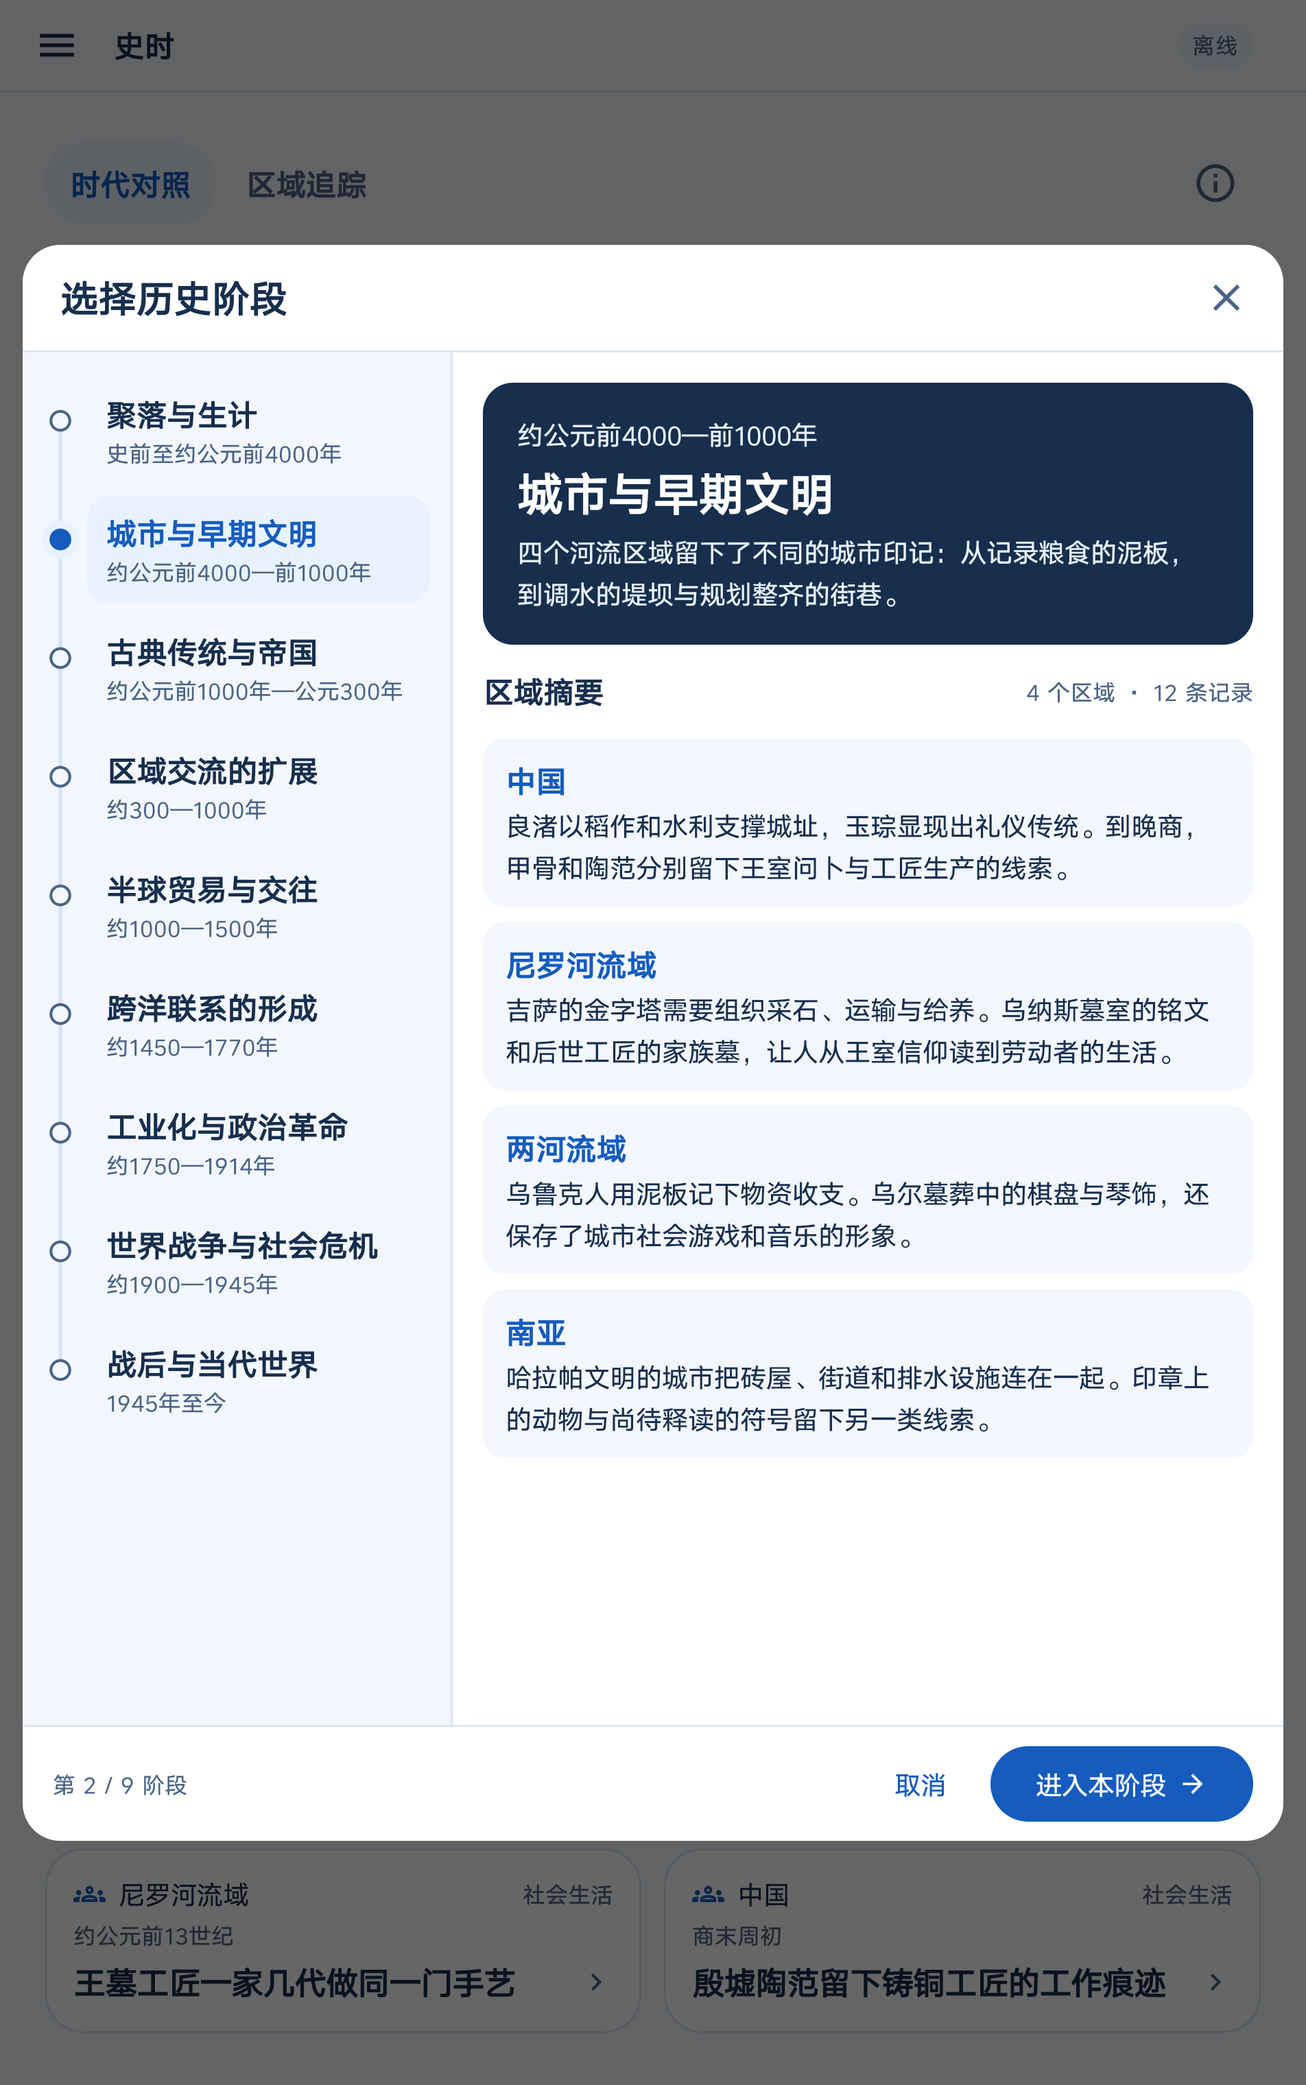
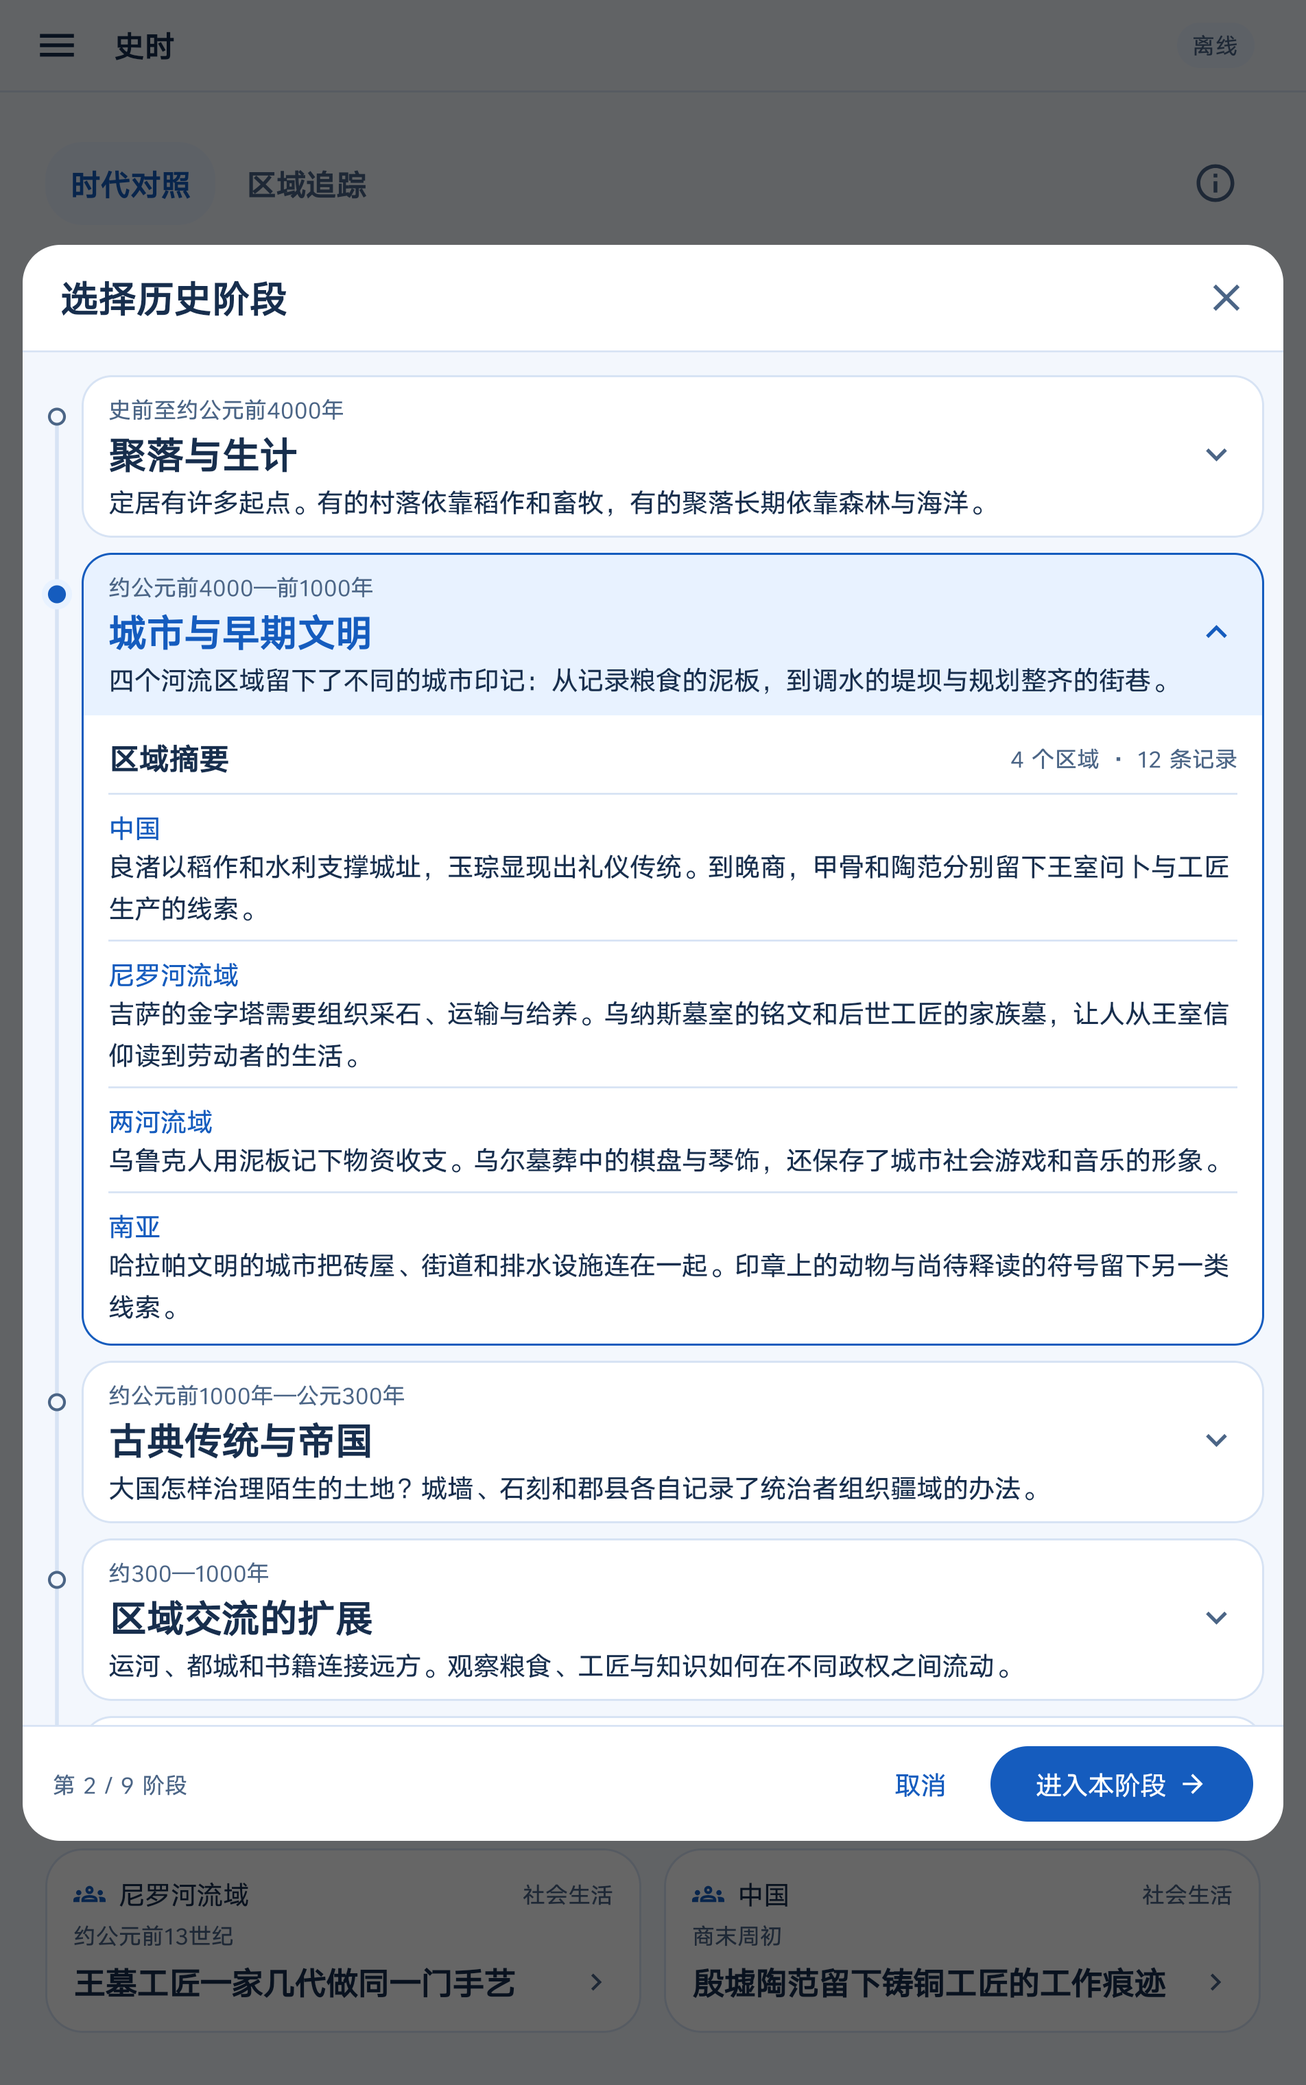
史时：在阶段概况下方展开区域详情

diff --git a/android/android/app/src/main/java/cn/xux/cloudworkbench/HistoryTimelineDialog.kt b/android/android/app/src/main/java/cn/xux/cloudworkbench/HistoryTimelineDialog.kt
@@ -1,41 +1,40 @@
 package cn.xux.cloudworkbench
 
+import androidx.compose.foundation.BorderStroke
 import androidx.compose.foundation.background
+import androidx.compose.foundation.clickable
 import androidx.compose.foundation.layout.*
 import androidx.compose.foundation.lazy.LazyColumn
-import androidx.compose.foundation.lazy.LazyRow
-import androidx.compose.foundation.lazy.LazyListScope
 import androidx.compose.foundation.lazy.itemsIndexed
 import androidx.compose.foundation.lazy.rememberLazyListState
-import androidx.compose.foundation.rememberScrollState
-import androidx.compose.foundation.selection.selectable
-import androidx.compose.foundation.selection.selectableGroup
-import androidx.compose.foundation.verticalScroll
 import androidx.compose.material.icons.Icons
-import androidx.compose.material.icons.outlined.Close
 import androidx.compose.material.icons.automirrored.outlined.ArrowForward
+import androidx.compose.material.icons.outlined.Close
+import androidx.compose.material.icons.outlined.ExpandLess
+import androidx.compose.material.icons.outlined.ExpandMore
 import androidx.compose.material3.*
 import androidx.compose.runtime.*
 import androidx.compose.runtime.saveable.rememberSaveable
 import androidx.compose.ui.Alignment
 import androidx.compose.ui.Modifier
-import androidx.compose.ui.draw.clip
 import androidx.compose.ui.draw.drawBehind
 import androidx.compose.ui.geometry.Offset
-import androidx.compose.ui.graphics.Color
 import androidx.compose.ui.graphics.drawscope.Stroke
 import androidx.compose.ui.platform.testTag
 import androidx.compose.ui.semantics.Role
+import androidx.compose.ui.semantics.semantics
+import androidx.compose.ui.semantics.stateDescription
 import androidx.compose.ui.unit.dp
 import androidx.compose.ui.window.Dialog
 import androidx.compose.ui.window.DialogProperties
 
 @Composable internal fun HistoryTimelineDialog(current: Int, close: () -> Unit, enter: (Int) -> Unit) {
     var preview by rememberSaveable { mutableIntStateOf(current) }
+    var showDetails by rememberSaveable { mutableStateOf(true) }
+    val list = rememberLazyListState(initialFirstVisibleItemIndex = (current - 1).coerceAtLeast(0))
     Dialog(onDismissRequest = close, properties = DialogProperties(usePlatformDefaultWidth = false)) {
-        BoxWithConstraints(Modifier.fillMaxSize().safeDrawingPadding().padding(12.dp), contentAlignment = Alignment.Center) {
-            val wide = maxWidth >= 580.dp
-            Surface(Modifier.widthIn(max = 1000.dp).fillMaxWidth().heightIn(max = 900.dp).fillMaxHeight(.94f),
+        Box(Modifier.fillMaxSize().safeDrawingPadding().padding(12.dp), contentAlignment = Alignment.Center) {
+            Surface(Modifier.widthIn(max = 760.dp).fillMaxWidth().heightIn(max = 900.dp).fillMaxHeight(.94f),
                 shape = MaterialTheme.shapes.large, color = MaterialTheme.colorScheme.surface) {
                 Column {
                     Row(Modifier.padding(start = 20.dp, end = 6.dp, top = 4.dp, bottom = 4.dp), verticalAlignment = Alignment.CenterVertically) {
@@ -43,20 +42,20 @@ import androidx.compose.ui.window.DialogProperties
                         IconButton(onClick = close) { Icon(Icons.Outlined.Close, "关闭", tint = Muted) }
                     }
                     HorizontalDivider(color = Outline)
-                    if (wide) {
-                        Row(Modifier.weight(1f)) {
-                            EraTimeline(preview, { preview = it }, Modifier.weight(.34f).fillMaxHeight(), horizontal = false)
-                            VerticalDivider(color = Outline)
-                            EraSummary(historyEras[preview], Modifier.weight(.66f).fillMaxHeight())
+                    LazyColumn(Modifier.weight(1f).fillMaxWidth().background(Background).testTag("eraTimeline"), state = list,
+                        contentPadding = PaddingValues(horizontal = 10.dp, vertical = 8.dp)) {
+                        itemsIndexed(historyEras, key = { _, era -> era.name }) { index, era ->
+                            val selected = index == preview
+                            EraNode(era, index, selected, selected && showDetails) {
+                                showDetails = !selected || !showDetails
+                                preview = index
+                                if (showDetails) list.requestScrollToItem(index)
+                            }
                         }
-                    } else {
-                        EraTimeline(preview, { preview = it }, Modifier.fillMaxWidth(), horizontal = true)
-                        HorizontalDivider(color = Outline)
-                        EraSummary(historyEras[preview], Modifier.weight(1f).fillMaxWidth())
                     }
                     HorizontalDivider(color = Outline)
                     Row(Modifier.fillMaxWidth().padding(horizontal = 16.dp, vertical = 6.dp),
-                        horizontalArrangement = Arrangement.End, verticalAlignment = Alignment.CenterVertically) {
+                        verticalAlignment = Alignment.CenterVertically) {
                         Text("第 ${preview + 1} / ${historyEras.size} 阶段", Modifier.weight(1f), color = Muted, style = MaterialTheme.typography.bodySmall)
                         TextButton(onClick = close) { Text("取消") }
                         Spacer(Modifier.width(8.dp))
@@ -72,72 +71,49 @@ import androidx.compose.ui.window.DialogProperties
     }
 }
 
-@Composable private fun EraTimeline(selected: Int, preview: (Int) -> Unit, modifier: Modifier, horizontal: Boolean) {
-    val list = rememberLazyListState(initialFirstVisibleItemIndex = if (horizontal) selected else (selected - 1).coerceAtLeast(0))
-    val entries: LazyListScope.() -> Unit = {
-        itemsIndexed(historyEras, key = { _, era -> era.name }) { index, era ->
-            val active = index == selected
-            val itemWidth = if (horizontal) Modifier.width(170.dp) else Modifier.fillMaxWidth()
-            Column(itemWidth.clip(MaterialTheme.shapes.small)
-                .selectable(selected = active, role = Role.RadioButton) { preview(index) }
-                .drawBehind {
-                    val point = Offset(12.dp.toPx(), (if (horizontal) 10.dp else 26.dp).toPx())
-                    val start = if (horizontal) Offset(0f, point.y) else Offset(point.x, 0f)
-                    val end = if (horizontal) Offset(size.width, point.y) else Offset(point.x, size.height)
-                    if (index > 0) drawLine(Outline, start, point, 2.dp.toPx())
-                    if (index < historyEras.lastIndex) drawLine(Outline, point, end, 2.dp.toPx())
-                    if (active) drawCircle(AccentSurface, 10.dp.toPx(), point)
-                    drawCircle(if (active) Accent else Background, 5.dp.toPx(), point)
-                    drawCircle(if (active) Accent else Muted, 5.dp.toPx(), point, style = Stroke(1.5.dp.toPx()))
-                }.padding(start = if (horizontal) 0.dp else 26.dp, top = if (horizontal) 20.dp else 3.dp,
-                    end = 3.dp, bottom = 3.dp)) {
-                Column(Modifier.fillMaxWidth().clip(MaterialTheme.shapes.small)
-                    .background(if (active) AccentSurface else Color.Transparent).padding(horizontal = 10.dp, vertical = 9.dp),
-                    verticalArrangement = Arrangement.spacedBy(2.dp)) {
-                    Text(era.name, style = MaterialTheme.typography.titleMedium, color = if (active) Accent else Ink)
+@Composable private fun EraNode(era: HistoryEra, index: Int, selected: Boolean, expanded: Boolean, toggle: () -> Unit) {
+    Box(Modifier.fillMaxWidth().drawBehind {
+        val point = Offset(8.dp.toPx(), 26.dp.toPx())
+        if (index > 0) drawLine(Outline, Offset(point.x, 0f), point, 2.dp.toPx())
+        if (index < historyEras.lastIndex) drawLine(Outline, point, Offset(point.x, size.height), 2.dp.toPx())
+        if (selected) drawCircle(AccentSurface, 8.dp.toPx(), point)
+        drawCircle(if (selected) Accent else Background, 4.dp.toPx(), point)
+        drawCircle(if (selected) Accent else Muted, 4.dp.toPx(), point, style = Stroke(1.5.dp.toPx()))
+    }.padding(start = 21.dp, top = 4.dp, bottom = 4.dp)) {
+        Surface(Modifier.fillMaxWidth(), shape = MaterialTheme.shapes.medium, color = MaterialTheme.colorScheme.surface,
+            border = BorderStroke(1.dp, if (selected) Accent else Outline)) {
+            Column {
+                Column(Modifier.fillMaxWidth().background(if (selected) AccentSurface else MaterialTheme.colorScheme.surface)
+                    .clickable(role = Role.Button, onClickLabel = if (expanded) "收起详情" else "展开详情", onClick = toggle)
+                    .semantics { stateDescription = if (expanded) "已展开" else "已收起" }
+                    .padding(horizontal = 14.dp, vertical = 10.dp), verticalArrangement = Arrangement.spacedBy(3.dp)) {
                     Text(era.dates, style = MaterialTheme.typography.bodySmall, color = Muted)
+                    Row(verticalAlignment = Alignment.CenterVertically) {
+                        Text(era.name, Modifier.weight(1f), style = MaterialTheme.typography.titleLarge, color = if (selected) Accent else Ink)
+                        Icon(if (expanded) Icons.Outlined.ExpandLess else Icons.Outlined.ExpandMore, null,
+                            modifier = Modifier.size(22.dp), tint = if (selected) Accent else Muted)
+                    }
+                    Text(era.summary, style = MaterialTheme.typography.bodyMedium, color = Ink)
                 }
+                if (expanded) RegionalSummaries(era)
             }
         }
     }
-    val axis = modifier.background(Background).selectableGroup().testTag("eraTimeline")
-    val inset = PaddingValues(horizontal = 8.dp, vertical = 10.dp)
-    if (horizontal) LazyRow(axis, state = list, contentPadding = inset, content = entries)
-    else LazyColumn(axis, state = list, contentPadding = inset, content = entries)
 }
 
-@Composable private fun EraSummary(era: HistoryEra, modifier: Modifier) {
-    val scroll = key(era.name) { rememberScrollState() }
-    Column(modifier.verticalScroll(scroll).testTag("eraSummary").padding(16.dp),
-        verticalArrangement = Arrangement.spacedBy(14.dp)) {
-        Surface(Modifier.fillMaxWidth(), shape = MaterialTheme.shapes.medium, color = Ink, contentColor = Color.White) {
-            Column(Modifier.padding(18.dp), verticalArrangement = Arrangement.spacedBy(6.dp)) {
-                Text(era.dates, style = MaterialTheme.typography.labelLarge, color = AccentSurface)
-                Text(era.name, style = MaterialTheme.typography.headlineSmall)
-                Text(era.summary, style = MaterialTheme.typography.bodyMedium, color = AccentSurface)
-            }
-        }
-        Row(Modifier.fillMaxWidth(), verticalAlignment = Alignment.CenterVertically) {
+@Composable private fun RegionalSummaries(era: HistoryEra) {
+    Column(Modifier.fillMaxWidth().testTag("eraSummary").padding(horizontal = 14.dp, vertical = 12.dp),
+        verticalArrangement = Arrangement.spacedBy(8.dp)) {
+        Row(verticalAlignment = Alignment.CenterVertically) {
             Text("区域摘要", Modifier.weight(1f), style = MaterialTheme.typography.titleMedium, color = Ink)
             Text("${era.regionalSummaries.size} 个区域 · ${era.events.size} 条记录", style = MaterialTheme.typography.bodySmall, color = Muted)
         }
-        BoxWithConstraints {
-            val columns = if (maxWidth >= 520.dp) 2 else 1
-            val regions = HistoryRegion.entries.filter { it in era.regionalSummaries }
-            Column(verticalArrangement = Arrangement.spacedBy(8.dp)) {
-                regions.chunked(columns).forEach { row ->
-                    Row(horizontalArrangement = Arrangement.spacedBy(8.dp)) {
-                        row.forEach { region ->
-                            Surface(Modifier.weight(1f), shape = MaterialTheme.shapes.small, color = Background) {
-                                Column(Modifier.padding(12.dp), verticalArrangement = Arrangement.spacedBy(4.dp)) {
-                                    Text(region.label, style = MaterialTheme.typography.titleMedium, color = Accent)
-                                    Text(era.regionalSummaries.getValue(region), style = MaterialTheme.typography.bodyMedium, color = Ink)
-                                }
-                            }
-                        }
-                        if (row.size < columns) Spacer(Modifier.weight(1f))
-                    }
-                }
+        for (region in HistoryRegion.entries) {
+            val summary = era.regionalSummaries[region] ?: continue
+            HorizontalDivider(color = Outline)
+            Column(verticalArrangement = Arrangement.spacedBy(2.dp)) {
+                Text(region.label, style = MaterialTheme.typography.labelLarge, color = Accent)
+                Text(summary, style = MaterialTheme.typography.bodyMedium, color = Ink)
             }
         }
     }

diff --git a/android/android/app/src/androidTest/java/cn/xux/cloudworkbench/ChronicleAcceptanceTest.kt b/android/android/app/src/androidTest/java/cn/xux/cloudworkbench/ChronicleAcceptanceTest.kt
@@ -106,14 +106,23 @@ class ChronicleAcceptanceTest {
         compose.openWorkbenchTab("史时")
         compose.onNodeWithText("选择阶段").performClick()
         val timeline = compose.onNodeWithTag("eraTimeline")
+        fun header(index: Int) = compose.onNode(hasText(historyEras[index].name) and hasAnyAncestor(hasTestTag("eraTimeline")))
         fun preview(index: Int) {
             timeline.performScrollToIndex(index)
-            compose.onNode(hasText(historyEras[index].name) and hasAnyAncestor(hasTestTag("eraTimeline"))).performClick()
-            compose.onNode(hasText(historyEras[index].name) and hasAnyAncestor(hasTestTag("eraSummary"))).assertIsDisplayed()
+            header(index).performClick().assert(hasStateDescription("已展开"))
+            val heading = header(index).fetchSemanticsNode().boundsInWindow
+            val details = compose.onNodeWithTag("eraSummary").fetchSemanticsNode().boundsInWindow
+            assertTrue("地区摘要应位于阶段概况正下方", heading.bottom <= details.top + 1 && details.width >= heading.width * .95f)
         }
         compose.onNodeWithText("区域摘要").assertIsDisplayed()
         capture("timeline-early")
+        header(1).performClick().assert(hasStateDescription("已收起"))
+        compose.onNodeWithTag("eraSummary").assertDoesNotExist()
+        header(1).assert(hasText(historyEras[1].summary))
+        capture("timeline-collapsed")
+        preview(1)
         preview(historyEras.lastIndex)
+        compose.onAllNodesWithTag("eraSummary").assertCountEquals(1)
         compose.onNodeWithText(historyEras.last().regionalSummaries.getValue(HistoryRegion.Brazil)).performScrollTo().assertIsDisplayed()
         compose.onNodeWithText("取消").performClick()
         compose.onNodeWithText("城市与早期文明").assertIsDisplayed()

diff --git a/android/docs/史时/README.md b/android/docs/史时/README.md
@@ -32,7 +32,7 @@
 
 ## 导航与验收
 
-在「选择阶段」点选时间轴节点，可预览年代、阶段概况与同期地区摘要，再点「进入本阶段」。平板左右并排显示时间轴和摘要，窄屏把时间轴横置在摘要上方。右侧概览标出地区数和事件数，便于估计本阶段的选材覆盖面。[TB322FC 阶段选择截图](era-timeline.png)
+在「选择阶段」沿单列时间轴浏览年代、阶段名称和事件概况。点阶段卡即可在概况下方展开同期各地摘要，再点一次收起。切换到另一阶段会收起上一段，方便在平板和手机上用整行宽度阅读。点「进入本阶段」切换主页，点「取消」保留原来的阶段。[TB322FC 展开截图](era-timeline.png) · [收起截图](era-timeline-collapsed.png)
 
 「区域追踪」按年代连接同一地区有记录的阶段。每个节点先介绍当地的阶段概况，再按年代列出事件和所属维度。筛选后只显示有匹配事件的阶段，概况仍介绍这个地区的阶段全貌。两种视图共用 57 则地区摘要。点开事件可查阅史料，也可转到同期其他地区。[TB322FC 中国区域线截图](region-timeline.png) · [菜单入口](menu.png)
 
@@ -42,4 +42,4 @@
 
 分期沿用 [UCLA 世界史教学标准](https://phi.history.ucla.edu/nchs/world-history-content-standards/)。当代观察样本包含安理会五个常任理事国及四国集团成员。[联合国安理会成员](https://main.un.org/securitycouncil/en/content/current-members) · [联合国关于四国集团的资料](https://ask.un.org/faq/269232)
 
-0.4.78（91）验收版在 TB322FC 实体平板与 Android 15 手机模拟器上分别通过三项交互测试，覆盖阶段预览、滑动至末段、取消和进入、区域追踪、维度筛选及史料入口。已逐阶段核对摘要与有记录的地区一一对应。两张时间轴截图取自 TB322FC。正式版 0.4.77 已在同一平板从社会生活记录打开中国社会科学网的孝民屯文章；平板弹出跨应用启动提示时需点「允许本次」。
+0.4.78（91）验收版在 TB322FC 实体平板与 Android 15 手机模拟器上分别通过三项交互测试，覆盖阶段详情原位展开与收起、切换阶段自动收起、滑动至末段、取消和进入、区域追踪、维度筛选及史料入口。已逐阶段核对摘要与有记录的地区一一对应。时间轴截图取自 TB322FC。正式版 0.4.77 已在同一平板从社会生活记录打开中国社会科学网的孝民屯文章；平板弹出跨应用启动提示时需点「允许本次」。
